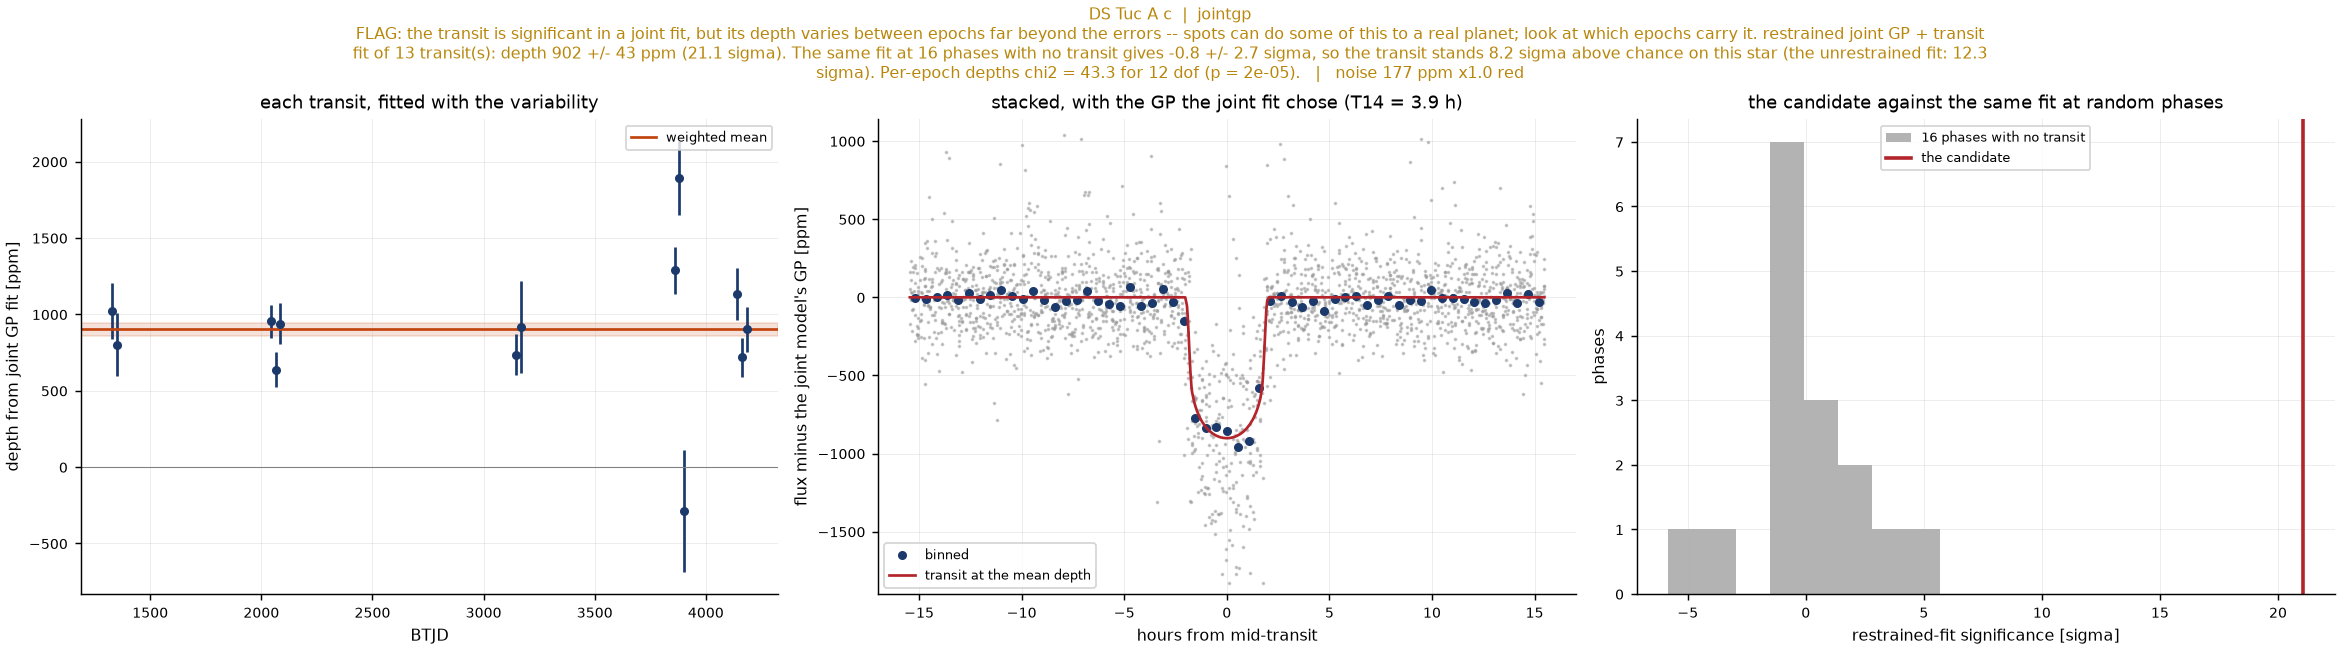
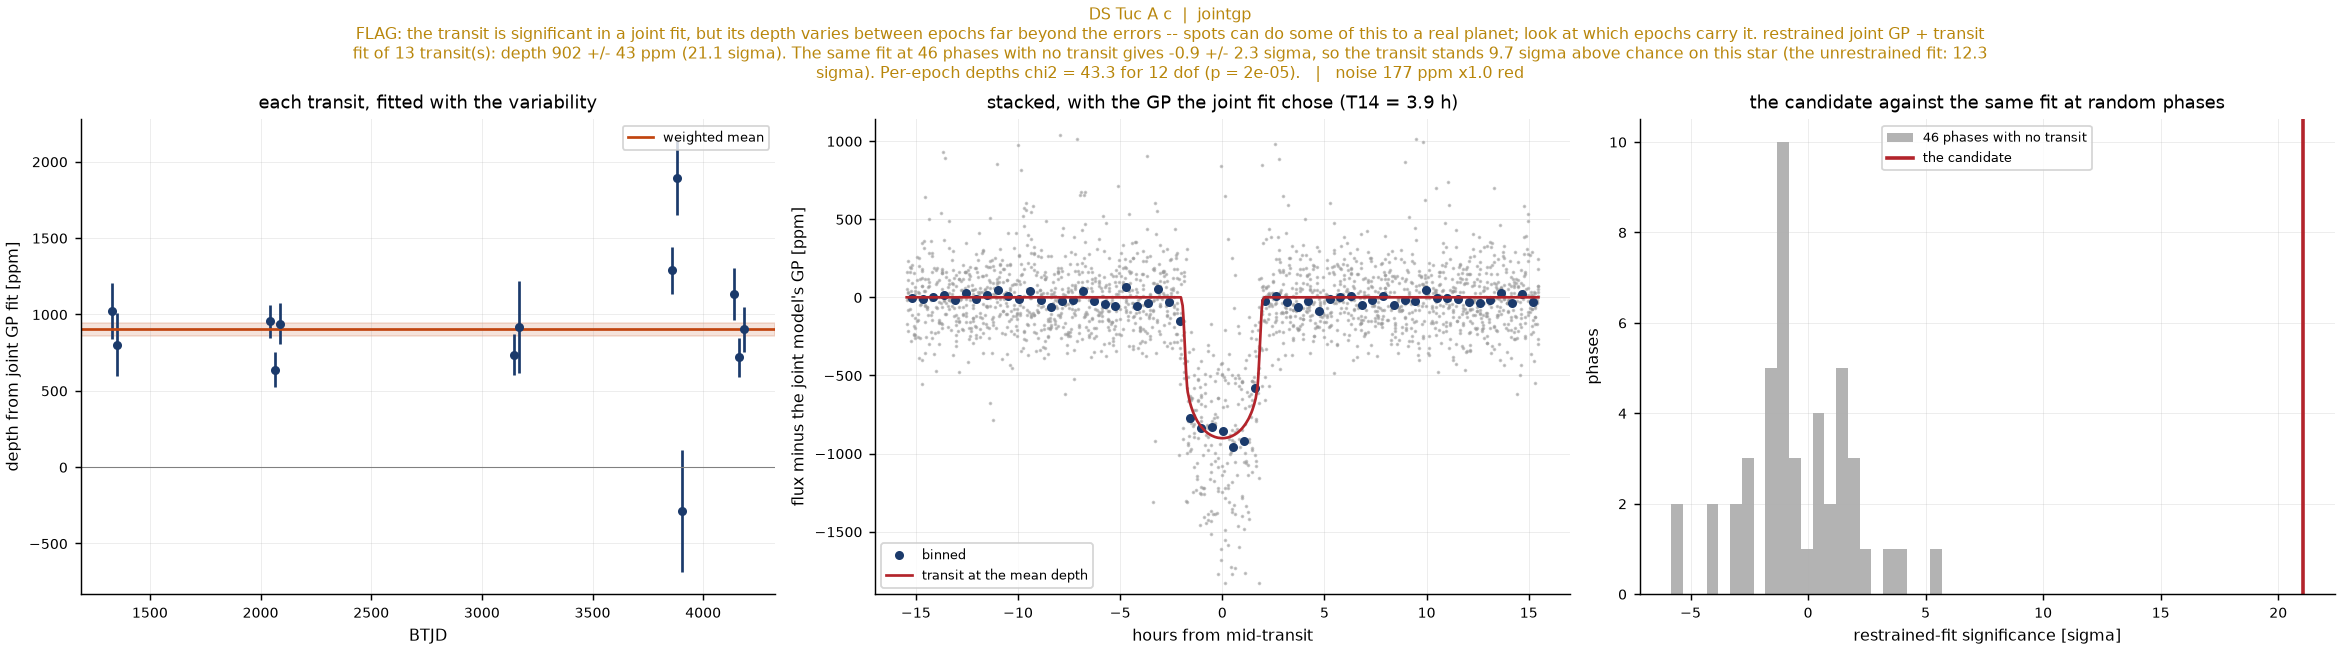
pc_fit 0.3.2 (no fit-vs-search depth check), pc_secondary 0.3.0 (full-width FAIL must repeat), pc_jointgp 0.3.2 (46 nulls; second look before FAIL); DS Tuc A c numbers updated

diff --git a/petcare/scripts/pc_jointgp.py b/petcare/scripts/pc_jointgp.py
@@ -63,7 +63,7 @@ from ..plotting import C_BAD, C_BINNED, C_MODEL, annotate_status, figure, save
 from ..result import Result, Status
 
 TEST = "jointgp"
-VERSION = "0.3.0"
+VERSION = "0.3.2"
 
 #: Half-width of each transit's window, in T14, with a floor in days, so the GP
 #: sees enough out-of-transit flux on both sides to pin itself down.
@@ -82,9 +82,15 @@ RESTRAINT = 0.1
 #: Null phases (fractions of the period) for the calibration.  A phase within
 #: NULL_MIN_SEP_T14 durations of the transit is skipped, and the real transits
 #: are removed from the null fits.  Fewer than NULL_MIN usable nulls -> the 0.1.x fit.
-NULL_PHASES = np.linspace(0.15, 0.85, 16)
+#: 0.3.1: 46 phases, up from 16 (every third one is an old phase), and
+#: NULL_MIN 14, up from 5 (the same ~30% share).  With 16, the calibrated significance
+#: depended on which phases were drawn: 18 of 162 benchmark cases within 2.5-6.5 sigma
+#: changed verdict between the 16 and the 46, in both directions.  FAIL rates on known
+#: planets (6 -> 7 of 47), injections (29 -> 30 of 99) and candidates rejected by eye
+#: (23 -> 23 of 97) are unchanged; the cost is run time in the null loop.
+NULL_PHASES = np.linspace(0.15, 0.85, 46)
 NULL_MIN_SEP_T14 = 3.0
-NULL_MIN = 5
+NULL_MIN = 14
 #: Calibrated significance.  FAIL below CAL_FAIL_SIGMA: 3.0 was the prototype's cut,
 #: raised to 4.0 in 0.3.0.  On our benchmark that moves injected planets wrongly
 #: failed from 37 to 59 of 300, known planets from 5 to 6 of 49, eye-vetted
@@ -92,6 +98,21 @@ NULL_MIN = 5
 #: of 103 (5.0 would give 81, 9, 7 and 36).
 CAL_FAIL_SIGMA = 4.0
 CAL_PASS_SIGMA = 5.0
+#: 0.3.2: a second look before a FAIL.  When the fixed-ephemeris fit is
+#: under CAL_FAIL_SIGMA and pc_fit did not PASS (no usable fit, so the mid-time is the
+#: search's; or a FLAG fit, whose duration can run long), the restrained fit is repeated
+#: over mid-time shifts of +/-REFINE_T0_T14 x T14 and durations x REFINE_SCALES, the best
+#: taken, and every null phase given the same choice.  The candidate FAILs only if that
+#: also stays under CAL_FAIL_SIGMA.  On the 442-case benchmark this turned two known
+#: planets run at search ephemerides from FAIL to PASS/FLAG (3 of 3 runs) and rescued one
+#: long-period candidate; known planets 7 of 47 and shortlisted candidates 5 of 57 failing
+#: were unchanged, injections went from 30 to 27 of 99, and 2 more of 97 candidates
+#: rejected by eye passed.  Mid-time freedom alone left one control failing; a PASS fit gains nothing.
+REFINE_T0_T14 = np.array([-0.25, -0.125, 0.0, 0.125, 0.25])
+REFINE_SCALES = np.array([0.8, 1.0, 1.25])
+#: Full width, in T14, of the real transit removed from the refined nulls (1.5 fixed).
+REFINE_EXCLUDE_T14 = 4.0
+REFINE_SKIP_MARGIN = 1.0
 #: 0.1.x grading, used only when there are too few nulls.  Calibrated on a
 #: benchmark of 22 known young planets: all 21 with more than one transit score
 #: 7.1-58 sigma.  The consistency flag fires on two heavily spotted hosts, so it
@@ -236,6 +257,55 @@ def _epochs(t, f, err, shape, spec, period, t0, t14, method, exclude=None):
     return rows, n_failed
 
 
+def _fit_status(ctx):
+    """pc_fit's status for this candidate, or None when there is no readable fit."""
+    fitf = ctx.out / ctx.target.slug / (
+        f"fit_c{ctx.candidate.index}.json" if ctx.candidate.index else "fit.json")
+    try:
+        return str(json.loads(fitf.read_text()).get("status"))
+    except (OSError, json.JSONDecodeError):
+        return None
+
+
+def _refined(ctx, t, f, err, spec, period, t0, t14, exp_days, null_phases, null_med_fixed):
+    """0.3.2: the restrained fit maximised over a small box in mid-time and duration,
+    for the candidate and for each null phase.  Returns (z_cal, detail) or (None, {})."""
+    x = np.linspace(-2.5 * t14, 2.5 * t14, 2001)
+    g, _ = _shape(ctx, t0 + x, period, t0, t14, exp_days)
+
+    def box(c0, exclude):
+        best = (-np.inf, 0.0, 1.0)
+        for sc in REFINE_SCALES:
+            for d in REFINE_T0_T14:
+                c = c0 + d * t14
+                dt = ((t - c + 0.5 * period) % period) - 0.5 * period
+                sh = np.interp(dt / sc, x, g, left=0.0, right=0.0)
+                rows, _ = _epochs(t, f, err, sh, spec, period, c, t14 * sc, "restrained",
+                                  exclude=exclude)
+                if len(rows) >= 2:
+                    m, s_, _, _ = _combine(rows)
+                    if m / s_ > best[0]:
+                        best = (float(m / s_), float(d), float(sc))
+        return best
+    zr, shift, scale = box(t0, None)
+    # Shortcut (speed only): each refined null is the best over a box that contains the
+    # fixed null, so their median is not below the fixed median, and the scatter is
+    # floored at 1.  If the best refined candidate value cannot clear the cut even
+    # against the fixed median, with REFINE_SKIP_MARGIN to spare, the nulls are not run.
+    if not np.isfinite(zr) or zr - null_med_fixed < CAL_FAIL_SIGMA - REFINE_SKIP_MARGIN:
+        return None, {"refined_z_uncalibrated": zr if np.isfinite(zr) else None,
+                      "refined_skipped": True}
+    real = ephem.in_transit(t, period, t0, t14, width=REFINE_EXCLUDE_T14)
+    zn = np.array([box(t0 + ph * period, real)[0] for ph in null_phases])
+    zn = zn[np.isfinite(zn)]
+    if not np.isfinite(zr) or zn.size < NULL_MIN:
+        return None, {}
+    med, sd = float(np.median(zn)), float(max(np.std(zn), 1.0))
+    return (zr - med) / sd, {
+        "refined_z_uncalibrated": zr, "refined_t0_shift_t14": shift, "refined_t14_scale": scale,
+        "refined_null_n": int(zn.size), "refined_null_z_median": med, "refined_null_z_sd": sd}
+
+
 def _limited(ctx, rows):
     """0.1.2's sensitivity limit on these rows: (search depth ppm, its sigma at this
     error) when the fit is under FAIL_SIGMA but cannot rule out the search depth."""
@@ -298,10 +368,11 @@ def run(ctx: cli.Context) -> Result:
 
     # the same restrained fit where there is no transit, real transits removed
     real = ephem.in_transit(t, period, t0, t14, width=1.5)
-    z_null = []
+    z_null, null_used = [], []
     for ph in NULL_PHASES:
         if min(ph, 1 - ph) * period < NULL_MIN_SEP_T14 * t14:
             continue
+        null_used.append(ph)
         # shape at the shifted ephemeris; pc_fit's geometry is phase-free
         tn = t0 + ph * period
         sn, _ = _shape(ctx, t, period, tn, t14, exp_days)
@@ -336,6 +407,22 @@ def run(ctx: cli.Context) -> Result:
     else:
         null_med = null_sd = z_cal = None
 
+    # 0.3.2: a second look before a FAIL, where pc_fit did not PASS (see REFINE_*)
+    z_fixed, refine = z_cal, {}
+    fit_status = _fit_status(ctx)
+    if (calibrated and n >= 2 and z_cal < CAL_FAIL_SIGMA
+            and (shape_src.startswith("trapezoid") or fit_status == str(Status.FLAG))):
+        try:
+            z_ref, refine = _refined(ctx, t, f, err, spec, period, t0, t14, exp_days, null_used, null_med)
+        except Exception as exc:  # noqa: BLE001 - the second look must not sink the test
+            z_ref = None
+            ctx.notes.append(f"refined fit failed: {type(exc).__name__}: {exc}")
+        if z_ref is not None:
+            refine["refined_z"] = float(z_ref)
+            if z_ref >= CAL_FAIL_SIGMA:
+                z_cal = float(z_ref)
+    rescued = calibrated and z_cal is not z_fixed
+
     r.metrics.update({
         "method": "restrained GP, null-calibrated" if calibrated
                   else "full GP (too few null phases to calibrate)",
@@ -356,6 +443,9 @@ def run(ctx: cli.Context) -> Result:
         "window_half_days": max(WINDOW_T14 * t14, WINDOW_MIN_DAYS),
         "gp_kind": getattr(spec, "kind", None),
         "n_windows_failed": n_failed,
+        "z_fixed_ephemeris": float(z_fixed) if z_fixed is not None else None,
+        "refined": bool(rescued), "fit_status_seen": fit_status,
+        **refine,
     })
     r.set_self_check(True, f"{n} transit(s) fitted jointly with a GP whose "
                            f"hyperparameters were trained out of transit; shape "
@@ -368,6 +458,17 @@ def run(ctx: cli.Context) -> Result:
                 f"chance on this star (the unrestrained fit: {z_full:.1f} sigma). "
                 f"Per-epoch depths chi2 = {chi2c:.1f} for {max(n - 1, 0)} dof "
                 f"(p = {p_cons:.1g}).")
+        if rescued:
+            desc = (f"At the input mid-time and duration the transit stands only "
+                    f"{z_fixed:.1f} sigma above chance; with the mid-time moved "
+                    f"{refine['refined_t0_shift_t14']:+.3f} T14 and the duration x"
+                    f"{refine['refined_t14_scale']:.2f} (pc_fit: {fit_status or 'none'}) it "
+                    f"stands {z_cal:.1f} sigma above null phases given the same freedom, "
+                    f"and that is the number judged. At the input ephemeris: " + desc)
+        elif refine.get("refined_z") is not None:
+            desc += (f" A second look over mid-time +/-{REFINE_T0_T14.max():.2f} T14 and "
+                     f"duration x{REFINE_SCALES.min():.2f}-{REFINE_SCALES.max():.2f} gives "
+                     f"{refine['refined_z']:.1f} sigma, still under the cut.")
     else:
         desc = (f"joint GP + transit fit of {n} transit(s), nothing masked: depth "
                 f"{mean * 1e6:.0f} +/- {sig * 1e6:.0f} ppm ({z:.1f} sigma); too few "

diff --git a/petcare/scripts/pc_secondary.py b/petcare/scripts/pc_secondary.py
@@ -46,7 +46,7 @@ from ..plotting import (C_ALT, C_BAD, C_BINNED, C_MODEL, C_OK, annotate_status,
 from ..result import Result
 
 TEST = "secondary"
-VERSION = "0.2.0"
+VERSION = "0.3.0"
 
 #: Significance at which a dip away from the transit is worth a human's time.
 #: PROVISIONAL: 4 sigma on a phase scan of a few hundred trials expects ~0.01
@@ -89,6 +89,17 @@ NARROW_AGREE_SIGMA = 4.0
 #: epoch at 13,000 ppm and three near 1,000; another "12.8%" was two of five.  The binary
 #: above has 7 of 7 epochs between 3,400 and 8,000 ppm, median 0.95 of the depth.
 NARROW_EPOCH_MEDIAN_FRAC = 0.5
+
+#: The full-width detection must repeat too before it can FAIL (0.3.0).  The scan looks at
+#: every phase, so the longer the period the more trial phases there are and the fewer epochs
+#: cover each one: the test failed 0.3% of candidates below 1 d but 17% at 30-45 d, typically on
+#: four visits to a phase of which one or two were bad (an injected planet "failed" on a 37%
+#: secondary at 116 sigma: two junk epochs of five).  A FAIL now needs MIN_EPOCHS_PER_PHASE
+#: epochs at that phase, a median per-epoch depth of NARROW_EPOCH_MEDIAN_FRAC of the detected
+#: depth, and this fraction of it left in the mean once the deepest epoch is dropped; otherwise
+#: it is a FLAG.  Injected planets failed: 16 of 120 -> 1 at 40-60 d, 2 of 300 -> 1 at 1-30 d.
+#: Main-table fails kept: 90% below 5 d, 11% at 30-45 d (secproto/, 948 measured).
+FULL_WITHOUT_DEEPEST_FRAC = 0.5
 
 #: Epochs a trial phase needs before its depth is a measurement.  A real
 #: eclipse repeats; below this there is no way to tell one from a single bad
@@ -370,6 +381,28 @@ def run(ctx: cli.Context) -> Result:
                   f"(1 sigma = {sigma:.0f} ppm, from the {sigma_source})")
     ell = harm["ellipsoidal"]
 
+    # ---- does the full-width detection repeat? -----------------------------
+    full_repeats, full_rep_note = None, ""
+    if np.isfinite(best_z) and best_z >= SECONDARY_STRONG_SIGMA and best_depth > 0:
+        try:
+            _, _, eps_f = _epoch_residuals(p, best_phase, 0.5 * 0.8 * full_dur / period,
+                                           0.75 * full_dur / period, 3.0 * full_dur / period, exclude=exclude)
+            ed = np.array([e[1] for e in eps_f], float)
+            wo = float(np.mean(np.sort(ed)[:-1])) if ed.size > 1 else np.nan
+            med = float(np.median(ed)) if ed.size else np.nan
+            full_repeats = bool(ed.size >= MIN_EPOCHS_PER_PHASE and med >= NARROW_EPOCH_MEDIAN_FRAC * best_depth
+                                and wo >= FULL_WITHOUT_DEEPEST_FRAC * best_depth)
+            r.metrics["full_width_repeat"] = {
+                "n_epochs": int(ed.size), "n_epochs_dipping": int((ed > 0).sum()),
+                "epoch_median_over_depth": _f(med / best_depth), "mean_without_deepest_over_depth": _f(wo / best_depth),
+                "epoch_depths_ppm": [_f(x) for x in ed[:60]], "repeats": full_repeats}
+            full_rep_note = (f"{int(ed.size)} epoch(s) cover that phase, {int((ed > 0).sum())} dip; the median epoch is "
+                             f"{med / best_depth:.2f} of the depth"
+                             + (f" and {wo / best_depth:.2f} of it is left without the deepest epoch" if np.isfinite(wo) else ""))
+        except Exception as exc:  # noqa: BLE001 -- without the check the detection cannot refute
+            full_repeats = False
+            full_rep_note = f"the per-epoch check failed ({exc!r})"
+
     narrow_note = ""
     if ok and narrow is not None and narrow["best_z"] > best_z:
         # The verdict below is then about the narrow-box detection; the full-width numbers
@@ -406,6 +439,14 @@ def run(ctx: cli.Context) -> Result:
                    f"not from a converged fit. Flagging rather than refuting: "
                    f"a secondary's phase is the whole claim. Re-run once "
                    f"pc_fit produces a usable ephemeris. {limit_note}")
+        elif best_depth >= SECONDARY_FAIL_DEPTH_PPM and not narrow_note and not full_repeats:
+            r.flag(f"secondary eclipse {where}: {best_depth:.0f} ppm "
+                   f"({best_depth / 1e4:.2f}%) at {best_z:.1f} sigma, too deep for a planet -- "
+                   f"but it does not repeat: {full_rep_note}. A refutation needs "
+                   f"{MIN_EPOCHS_PER_PHASE} epochs at that phase with a median of "
+                   f"{NARROW_EPOCH_MEDIAN_FRAC:g} of the depth and {FULL_WITHOUT_DEEPEST_FRAC:g} of it "
+                   f"left without the deepest one; with fewer, one bad epoch at one of "
+                   f"{n_phase} trial phases makes this. {limit_note}")
         elif best_depth >= SECONDARY_FAIL_DEPTH_PPM:
             r.fail(f"secondary eclipse {where}: {best_depth:.0f} ppm "
                    f"({best_depth / 1e4:.2f}%) at {best_z:.1f} sigma. No "

diff --git a/petcare/scripts/pc_fit.py b/petcare/scripts/pc_fit.py
@@ -43,7 +43,7 @@ from ..result import Result
 from ..stellar import duration_t14, reconcile_density, rho_circ
 
 TEST = "fit"
-VERSION = "0.3.0"
+VERSION = "0.3.2"
 
 #: GP amplitude / transit depth thresholds.  On 71 known planets this ratio
 #: had a median of 2.6 where the GP+transit fit recovered the planet and 10.8
@@ -54,13 +54,11 @@ VERSION = "0.3.0"
 GP_SIGMA_OVER_DEPTH_FLAG = 8.0
 GP_SIGMA_OVER_DEPTH_INCONCLUSIVE = 20.0
 
-#: The fitted depth and the input (search) depth must agree within this factor,
-#: or the fit FAILS (0.3.0; it was a shortlist cut).  Applies only when the
-#: input table gives a depth.  The two known planets furthest apart are 3.01x
-#: and 3.17x on the same de-diluted flux.  What fails is mostly a fit that grew
-#: into a longer, deeper dip than the search found (median T14 4.3x the
-#: search's): 0 of 53 eye-vetted planet-like or known candidates, 6 rejects.
-DEPTH_AGREE = 3.25
+#: The fit-versus-search depth comparison is gone (0.3.2).  It was a FAIL in
+#: 0.3.0 and a FLAG in 0.3.1; the search depth is a box on notch-detrended flux (about half
+#: of an injected depth at short periods, ~13% at 40-60 d), and as a flag it sat on 180
+#: candidates without separating the ones judged planet-like by eye from rejects.  The ratio is still
+#: recorded as the metric ``depth_over_input``.
 
 #: Ephemeris drift, in durations at the far end of the baseline, above which
 #: the refinement is large enough that anything folded on the input ephemeris
@@ -543,11 +541,6 @@ def run(ctx: cli.Context) -> Result:
                 f"depth={fit.depth_ppm:.0f} ppm as fitted)")
         else:
             r.inconclusive("self-check failed: " + r.self_check["detail"])
-    elif depth_ratio is not None and not 1 / DEPTH_AGREE <= depth_ratio <= DEPTH_AGREE:
-        r.fail(f"fit converged (P={fit.period:.6f} d, T14={fit.t14_h:.2f} h) on a depth of "
-               f"{fit.depth_ppm:.0f} ppm, {depth_ratio:.1f}x the {in_depth:.0f} ppm the "
-               f"search found (allowed within {DEPTH_AGREE:g}x): the fit is not "
-               f"measuring the signal that was detected")
     elif not is_local and np.isfinite(ratio) and ratio > GP_SIGMA_OVER_DEPTH_FLAG:
         r.flag(f"fit converged (P={fit.period:.6f} d, depth={fit.depth_ppm:.0f} ppm, "
                f"T14={fit.t14_h:.2f} h) but the GP amplitude is {ratio:.0f}x the "

diff --git a/examples/ds_tuc/README.md b/examples/ds_tuc/README.md
@@ -63,9 +63,9 @@ same TESS sectors:
 
 | input | epochs | fit depth | joint GP, above the null phases | result |
 |---|---:|---:|---:|---|
-| tessquicklook, via `pc-extract` | 12 | 812 ppm | 8.2 sigma | no FAIL |
+| tessquicklook, via `pc-extract` | 12 | 812 ppm | 9.7 sigma | no FAIL |
 | tessquicklook CSV (no quality mask) | 12 | 768 ppm | 2.2 sigma | `jointgp` FAIL |
-| SPOC 120 s PDCSAP | 10 | 860 ppm | 2.2 sigma | `jointgp` FAIL |
+| SPOC 120 s PDCSAP | 10 | 860 ppm | 1.3 sigma | `jointgp` FAIL |
 
 The public SPOC light curve is too noisy to recover this planet with confidence. A
 local-baseline fit still finds a dip of about the right depth, but it is not significant

diff --git a/README.md b/README.md
@@ -134,7 +134,7 @@ leaves behind on its own; the real epochs are compared with that.
 ![DS Tuc A c interpolation test](docs/images/dstuc_c_interp.png)
 
 **Each transit fitted jointly with the variability, against the same fit where there is
-no transit** (`pc-jointgp`). The candidate (red line, right) stands 8.2σ above the
+no transit** (`pc-jointgp`). The candidate (red line, right) stands 9.7σ above the
 null phases.
 
 ![DS Tuc A c joint GP test](docs/images/dstuc_c_jointgp.png)
